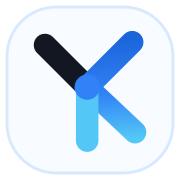
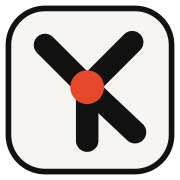
brand: ink YK mark with a vermilion joint, poster-style share image
The blue gradient mark and the glass-card OG artwork read as generic
AI output. The mark is now ink with one vermilion dot (the same accent
as the headline's full stop); favicon, app icon and 512 PNG are
regenerated from it. The OG image is drawn from SVG in the generator
(name, one-line intro, 63~69ms and 300~400) instead of compositing a
badge onto a stock background, and ships as og-image-v4.png so social
caches drop the old one. theme-color follows the paper/ink palette.

Changed region(s): [[0.0278, 0.0278, 0.9722, 0.9722], [0.3889, 0.1667, 0.8333, 0.8611]]

diff --git a/index.html b/index.html
@@ -8,8 +8,8 @@
     <link rel="apple-touch-icon" sizes="180x180" href="/apple-touch-icon.png" />
     <link rel="preload" as="image" href="/my-photo-224.webp" type="image/webp" fetchpriority="high" />
     <meta name="viewport" content="width=device-width, initial-scale=1.0" />
-    <meta name="theme-color" content="#121722" media="(prefers-color-scheme: dark)" />
-    <meta name="theme-color" content="#f8fbff" media="(prefers-color-scheme: light)" />
+    <meta name="theme-color" content="#111111" media="(prefers-color-scheme: dark)" />
+    <meta name="theme-color" content="#f6f5f1" media="(prefers-color-scheme: light)" />
 
     <!-- Display and mono fonts. Korean body text uses the local system stack. -->
     <link rel="preconnect" href="https://fonts.googleapis.com" />
@@ -38,8 +38,8 @@
     <meta property="og:type" content="website" />
     <meta property="og:url" content="https://www.yongjaekwon.com/" />
     <meta property="og:site_name" content="권용재 웹 개발자 포트폴리오" />
-    <meta property="og:image" content="https://www.yongjaekwon.com/og-image-v3.png" />
-    <meta property="og:image:secure_url" content="https://www.yongjaekwon.com/og-image-v3.png" />
+    <meta property="og:image" content="https://www.yongjaekwon.com/og-image-v4.png" />
+    <meta property="og:image:secure_url" content="https://www.yongjaekwon.com/og-image-v4.png" />
     <meta property="og:image:type" content="image/png" />
     <meta property="og:image:width" content="1200" />
     <meta property="og:image:height" content="630" />
@@ -48,7 +48,7 @@
     <meta name="twitter:card" content="summary_large_image" />
     <meta name="twitter:title" content="권용재 | 웹 개발자 포트폴리오" />
     <meta name="twitter:description" content="B2B 협력사 포털 PPS와 교육용 단말 운영 시스템 TSMS에서 개발하고 운영한 기능과 개인 프로젝트를 소개합니다." />
-    <meta name="twitter:image" content="https://www.yongjaekwon.com/og-image-v3.png" />
+    <meta name="twitter:image" content="https://www.yongjaekwon.com/og-image-v4.png" />
     <meta name="twitter:image:alt" content="권용재 웹 개발자 포트폴리오" />
     <title>권용재 | 웹 개발자 포트폴리오</title>
   </head>

diff --git a/tests/brandAssets.test.ts b/tests/brandAssets.test.ts
@@ -6,13 +6,13 @@ import { describe, expect, it } from "vitest";
 const root = new URL("../", import.meta.url);
 const file = (path: string) => fileURLToPath(new URL(path, root));
 
-describe("YK Flow brand assets", () => {
+describe("YK brand assets", () => {
   it.each([
     ["public/brand/yongjae-mark.svg", "svg", 64, 64],
     ["public/brand/yongjae-mark-512.png", "png", 512, 512],
     ["public/favicon-32x32.png", "png", 32, 32],
     ["public/apple-touch-icon.png", "png", 180, 180],
-    ["public/og-image-v3.png", "png", 1200, 630],
+    ["public/og-image-v4.png", "png", 1200, 630],
   ] as const)("renders %s with the expected metadata", async (path, format, width, height) => {
     const metadata = await sharp(file(path)).metadata();
     expect(metadata).toMatchObject({ format, width, height });
@@ -25,7 +25,7 @@ describe("YK Flow brand assets", () => {
   });
 
   it("keeps social media artwork within a practical transfer budget", async () => {
-    const og = await stat(file("public/og-image-v3.png"));
+    const og = await stat(file("public/og-image-v4.png"));
     expect(og.size).toBeLessThan(1_000_000);
   });
 
@@ -38,7 +38,7 @@ describe("YK Flow brand assets", () => {
 
     expect(html).toContain('/favicon-32x32.png');
     expect(html).toContain('/apple-touch-icon.png');
-    expect(html).toContain('/og-image-v3.png');
+    expect(html).toContain('/og-image-v4.png');
     expect(navbar).toContain('/brand/yongjae-mark.svg');
     expect(footer).toContain('/brand/yongjae-mark.svg');
   });
